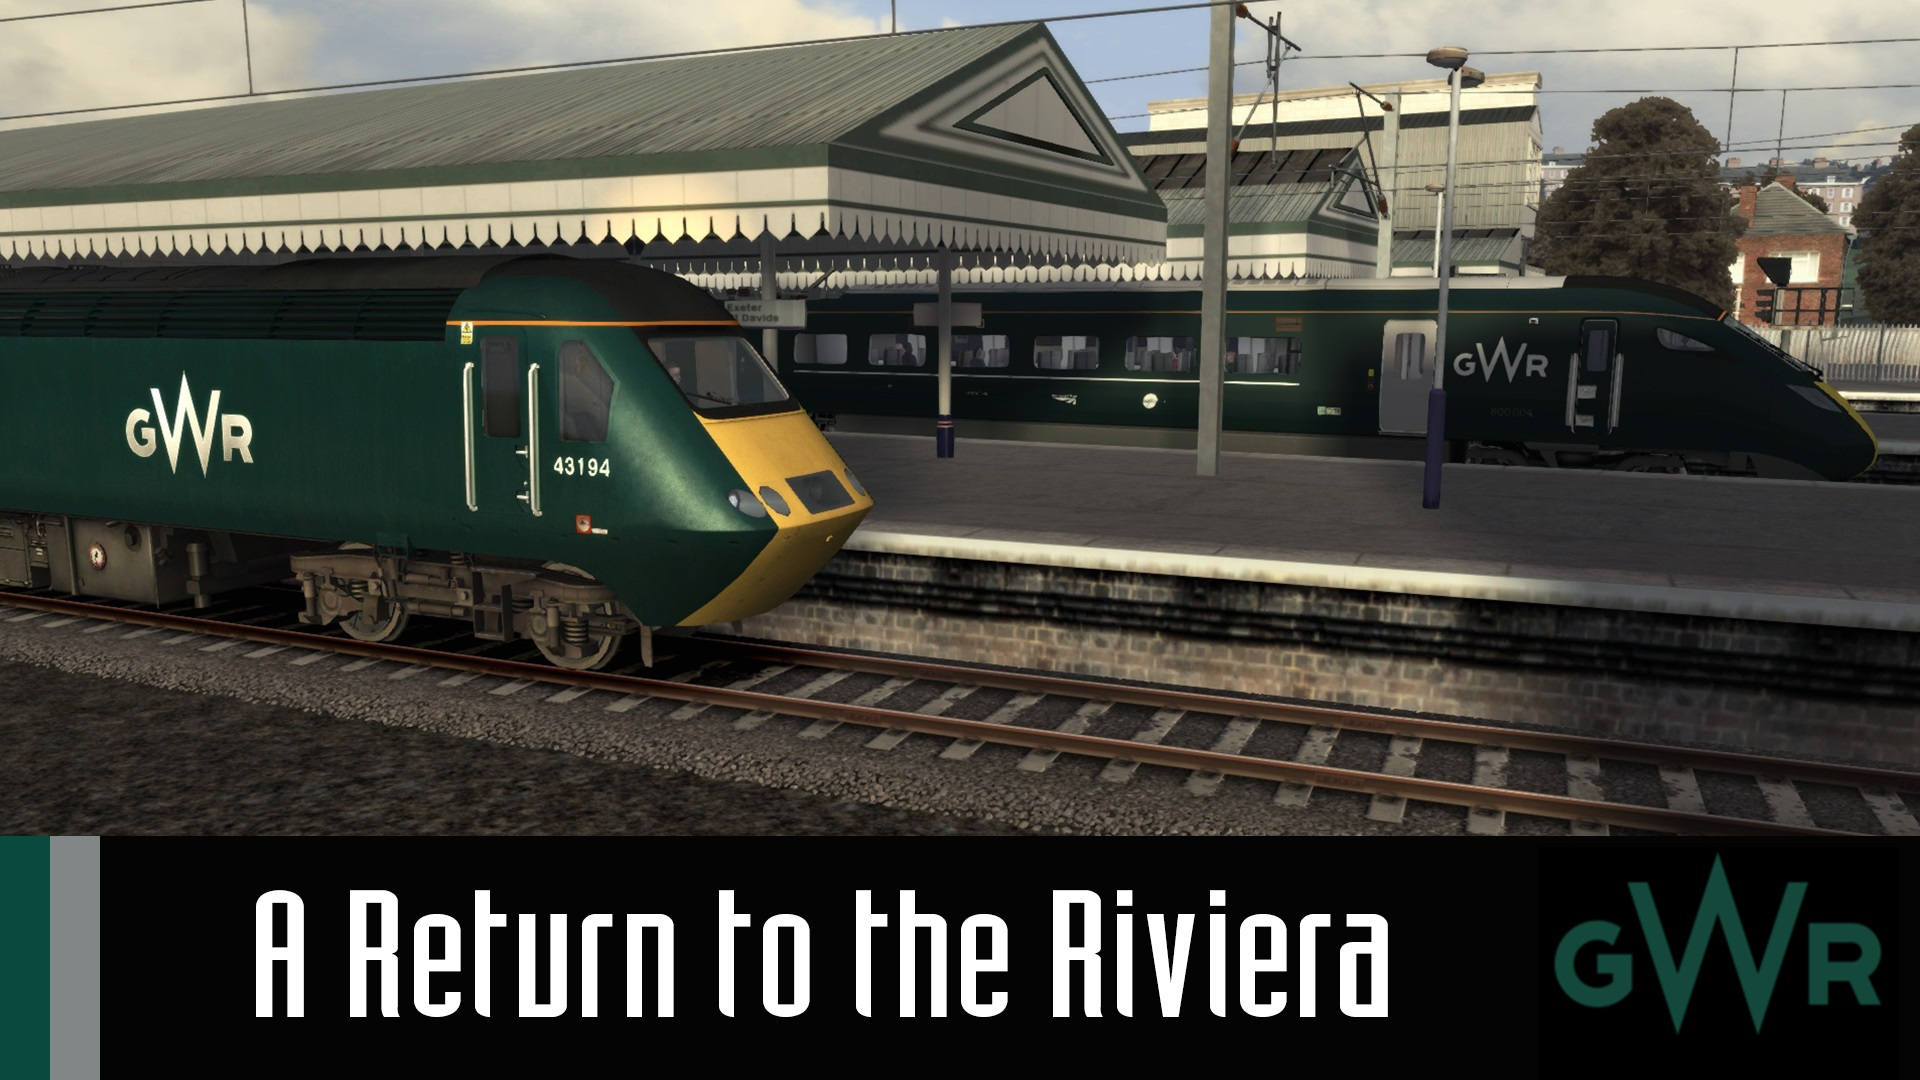
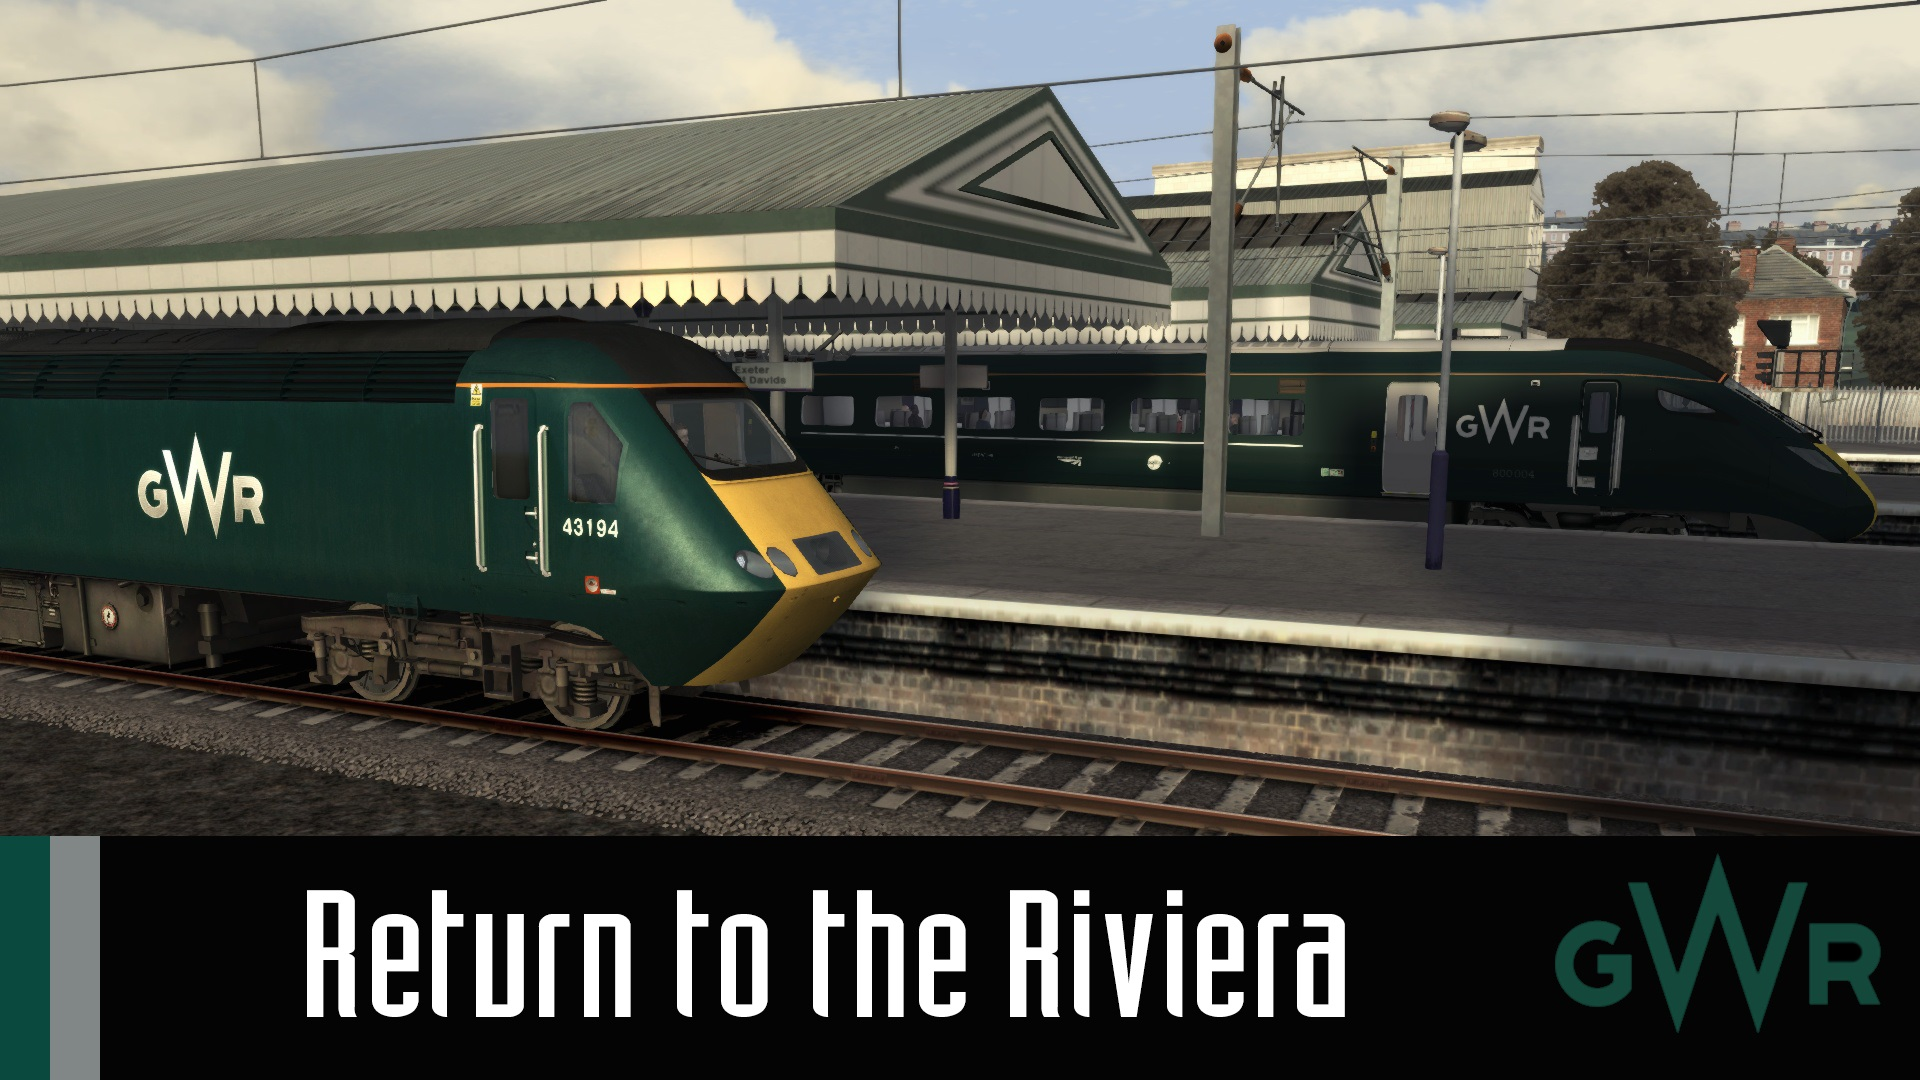
Updated riviera scenario

diff --git a/_pages/trains/trains.md b/_pages/trains/trains.md
@@ -61,9 +61,9 @@ Have fun!
 
 [Back](#top)
 
-# A Return to the Riviera
+# Return to the Riviera
 
-![A Return to the Riviera](/images/scenarios/return-to-the-riviera.jpg)
+![Return to the Riviera](/images/scenarios/return-to-the-riviera.jpg)
 
 * **Traction:** High Speed Train
 * **TOC:** Great Western Railway
@@ -79,7 +79,7 @@ Have fun!
 
 ## Downloads
 * [Direct download (rwp file)](/scenarios/A Return to the Riviera.rwp)
-* [Steam Workshop](http://steamcommunity.com/sharedfiles/filedetails/?id=1090186754)
+* [Steam Workshop](http://steamcommunity.com/sharedfiles/filedetails/?id=1095038719)
 
 ## Requirements
 
@@ -91,6 +91,7 @@ Have fun!
 * [East Coast Main Line South (London - Peterborough)](http://store.steampowered.com/app/222618)
 * [Class 68 Scotrail](http://store.steampowered.com/app/376930)*
 * [Class 66 EWS v2.0](http://store.steampowered.com/app/222568/)*
+* [European Loco and Asset Pack](http://store.steampowered.com/app/208300)
 * Class 801 (free to all TS users)
 
 #### Armstrong Powerhouse
